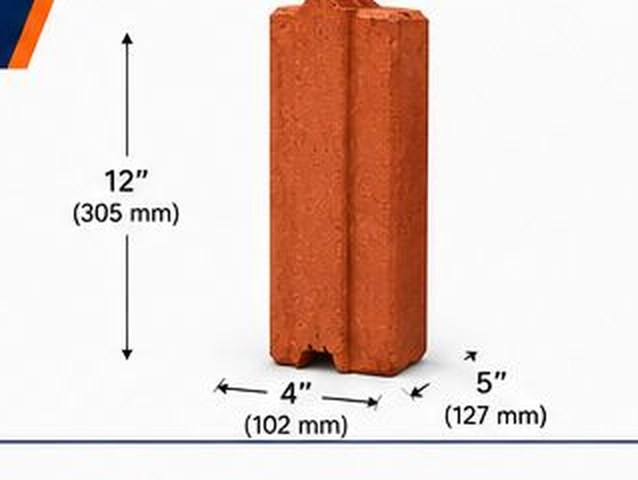
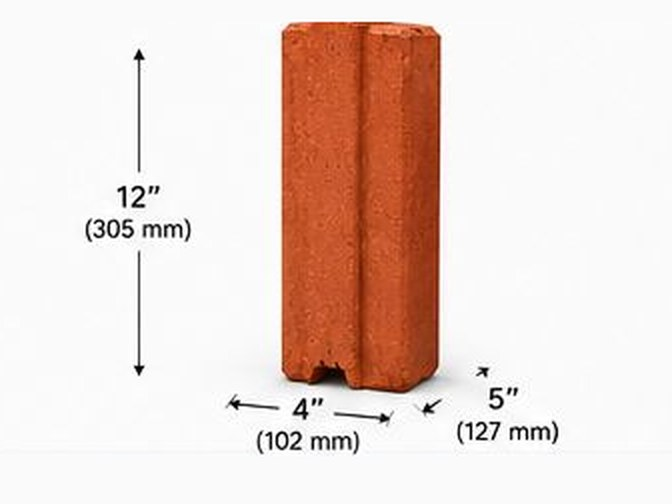
Add image sliders, size-based product cards in 9/6/4 order, drop Best Seller tag
- Reorder brick sizes to 9" / 6" / 4" everywhere (hero chips, stats,
  products intro, enquiry dropdown, footer links, designs caption)
- Replace the About section's static images with an autoplaying slideshow
  of all gallery photos (arrows, dots, swipe); gallery section unchanged
- Rebuild products as three size cards — 9, 6 and 4 inch — each with a
  red-first / grey-second image slider and full dimension annotations
- Crop a clean red 9-inch brick from the sizes sheet; re-crop 6-inch and
  4-inch to exact 4:3 with banner slivers and divider lines erased
- Remove the Best Seller tag and its CSS
- Fix About media collapsing to zero width on mobile (grid auto-margin
  shrink-wrap with no intrinsic-width child)

Changed region(s): [[0.0, 0.0, 1.0, 0.9375], [0.0893, 0.0625, 0.2978, 0.75], [0.0, 0.0, 0.0893, 0.1562]]

diff --git a/index.html b/index.html
@@ -137,7 +137,7 @@
 
     <ul class="hero__chips reveal" aria-label="Key highlights">
       <li><strong>10 Tons</strong><span>Load strength</span></li>
-      <li><strong>4" · 6" · 9"</strong><span>Brick sizes</span></li>
+      <li><strong>9" · 6" · 4"</strong><span>Brick sizes</span></li>
       <li><strong>100%</strong><span>Eco-friendly</span></li>
       <li><strong>Zero</strong><span>Plastering</span></li>
     </ul>
@@ -164,8 +164,21 @@
 <section class="section about" id="about">
   <div class="container about__grid">
     <div class="about__media reveal">
-      <img src="assets/images/wall-construction.jpg" alt="A wall under construction using Avani interlocking bricks" class="about__img-main" />
-      <img src="assets/images/bricks-stacked-red.jpg" alt="Neatly stacked red interlocking bricks showing the tongue-and-groove profile" class="about__img-float" />
+      <div class="slider slider--about" data-slider data-autoplay="3800" aria-label="Avani bricks and projects photo slideshow">
+        <div class="slider__track">
+          <img src="assets/images/bricks-yard-red.jpg" alt="Rows of red interlocking bricks curing in the production yard" class="slider__slide is-active" />
+          <img src="assets/images/wall-construction.jpg" alt="A wall under construction using Avani interlocking bricks" class="slider__slide" loading="lazy" />
+          <img src="assets/images/bricks-stacked-red.jpg" alt="Neatly stacked red interlocking bricks showing the tongue-and-groove profile" class="slider__slide" loading="lazy" />
+          <img src="assets/images/compound-wall-finished.jpg" alt="A completed compound wall built by Avani" class="slider__slide" loading="lazy" />
+          <img src="assets/images/wall-finish.jpg" alt="Smooth finished interlock brick wall" class="slider__slide" loading="lazy" />
+          <img src="assets/images/wall-plastered.jpg" alt="Interlock wall half plastered to show the paint-ready finish" class="slider__slide" loading="lazy" />
+          <img src="assets/images/yard-tan-close.jpg" alt="Close-up of interlocking bricks stacked in the yard" class="slider__slide" loading="lazy" />
+          <img src="assets/images/yard-tan-wide.jpg" alt="Wide view of the Avani brick production yard" class="slider__slide" loading="lazy" />
+        </div>
+        <button class="slider__arrow slider__arrow--prev" type="button" data-dir="-1" aria-label="Previous photo"><svg viewBox="0 0 24 24" aria-hidden="true"><path d="M15 6l-6 6 6 6"/></svg></button>
+        <button class="slider__arrow slider__arrow--next" type="button" data-dir="1" aria-label="Next photo"><svg viewBox="0 0 24 24" aria-hidden="true"><path d="M9 6l6 6-6 6"/></svg></button>
+        <div class="slider__dots"></div>
+      </div>
       <div class="about__badge">
         <strong>10T</strong>
         <span>Withstands<br />heavy load</span>
@@ -213,7 +226,7 @@
     </div>
     <div class="stat reveal">
       <span class="stat__num" data-count="3" data-suffix="">0</span>
-      <span class="stat__label">Brick sizes (4", 6" &amp; 9")</span>
+      <span class="stat__label">Brick sizes (9", 6" &amp; 4")</span>
     </div>
     <div class="stat reveal">
       <span class="stat__num" data-count="100" data-suffix="%">0</span>
@@ -322,72 +335,70 @@
       <p class="eyebrow reveal"><span class="eyebrow-rule"></span> Our Products <span class="eyebrow-rule"></span></p>
       <h2 class="section__title reveal">Interlocking bricks for every build</h2>
       <p class="section__intro reveal">
-        Available in red soil-cement and grey concrete, in 4 inch, 6 inch and 9 inch sizes — choose the
-        right brick for walls, compound walls, buildings and sheds.
+        Available in 9 inch, 6 inch and 4 inch sizes — each in red soil-cement and grey concrete.
+        Slide any card to see both colours and choose the right brick for walls, compound walls,
+        buildings and sheds.
       </p>
     </div>
 
     <div class="products__grid">
       <article class="product reveal">
         <div class="product__media">
-          <img src="assets/images/brick-red-6inch.jpg" alt="Red interlocking brick, size 6 x 12 x 5 inches" />
-          <span class="product__tag">Best Seller</span>
-        </div>
-        <div class="product__body">
-          <h3>Red Interlock Brick</h3>
-          <p class="product__spec">Size 6 × 12 × 5 in</p>
-          <p>Our signature soil-cement interlocking brick. Strong, smooth and ready to lay with minimal mortar.</p>
-          <div class="product__tags"><span>Walls</span><span>Homes</span><span>Compound</span></div>
-          <a href="#contact" class="product__link">Enquire <svg viewBox="0 0 24 24" aria-hidden="true"><path d="M5 12h14M13 6l6 6-6 6"/></svg></a>
-        </div>
-      </article>
-
-      <article class="product reveal">
-        <div class="product__media">
-          <img src="assets/images/brick-grey-trio.jpg" alt="Grey concrete interlocking bricks showing the interlocking grooves" />
-        </div>
-        <div class="product__body">
-          <h3>Grey Concrete Interlock</h3>
-          <p class="product__spec">4", 6" &amp; 9" available</p>
-          <p>High-density concrete interlock bricks built for load-bearing walls and heavy-duty structures.</p>
-          <div class="product__tags"><span>Buildings</span><span>Load-bearing</span></div>
-          <a href="#contact" class="product__link">Enquire <svg viewBox="0 0 24 24" aria-hidden="true"><path d="M5 12h14M13 6l6 6-6 6"/></svg></a>
-        </div>
-      </article>
-
-      <article class="product reveal">
-        <div class="product__media">
-          <img src="assets/images/brick-grey-single.jpg" alt="A single grey interlocking brick" />
+          <div class="slider slider--product" data-slider aria-label="9 inch interlock brick in red and grey">
+            <div class="slider__track">
+              <img src="assets/images/brick-red-9inch.jpg" alt="Red 9 inch interlocking brick, size 9 x 12 x 5 inches" class="slider__slide is-active" />
+              <img src="assets/images/brick-grey-single.jpg" alt="Grey concrete 9 inch interlocking bricks" class="slider__slide" loading="lazy" />
+            </div>
+            <button class="slider__arrow slider__arrow--prev" type="button" data-dir="-1" aria-label="Previous image"><svg viewBox="0 0 24 24" aria-hidden="true"><path d="M15 6l-6 6 6 6"/></svg></button>
+            <button class="slider__arrow slider__arrow--next" type="button" data-dir="1" aria-label="Next image"><svg viewBox="0 0 24 24" aria-hidden="true"><path d="M9 6l6 6-6 6"/></svg></button>
+            <div class="slider__dots"></div>
+          </div>
         </div>
         <div class="product__body">
           <h3>9 Inch Interlock</h3>
-          <p class="product__spec">Thick wall · extra strength</p>
-          <p>The 9 inch profile for outer walls, compound walls and structures that need extra strength.</p>
-          <div class="product__tags"><span>Compound walls</span><span>Sheds</span></div>
+          <p class="product__spec">Size 9 × 12 × 5 in · Red &amp; Grey</p>
+          <p>The thick 9 inch profile for outer walls, compound walls and structures that need extra strength.</p>
+          <div class="product__tags"><span>Compound walls</span><span>Load-bearing</span></div>
           <a href="#contact" class="product__link">Enquire <svg viewBox="0 0 24 24" aria-hidden="true"><path d="M5 12h14M13 6l6 6-6 6"/></svg></a>
         </div>
       </article>
 
       <article class="product reveal">
         <div class="product__media">
-          <img src="assets/images/brick-grey-tall.jpg" alt="A grey interlocking brick standing upright" />
+          <div class="slider slider--product" data-slider aria-label="6 inch interlock brick in red and grey">
+            <div class="slider__track">
+              <img src="assets/images/brick-red-6inch.jpg" alt="Red 6 inch interlocking brick, size 6 x 12 x 5 inches" class="slider__slide is-active" />
+              <img src="assets/images/brick-grey-tall.jpg" alt="Grey concrete 6 inch interlocking brick" class="slider__slide" loading="lazy" />
+            </div>
+            <button class="slider__arrow slider__arrow--prev" type="button" data-dir="-1" aria-label="Previous image"><svg viewBox="0 0 24 24" aria-hidden="true"><path d="M15 6l-6 6 6 6"/></svg></button>
+            <button class="slider__arrow slider__arrow--next" type="button" data-dir="1" aria-label="Next image"><svg viewBox="0 0 24 24" aria-hidden="true"><path d="M9 6l6 6-6 6"/></svg></button>
+            <div class="slider__dots"></div>
+          </div>
         </div>
         <div class="product__body">
           <h3>6 Inch Interlock</h3>
-          <p class="product__spec">Lightweight · versatile</p>
-          <p>The everyday 6 inch brick for internal partitions and fast, economical wall construction.</p>
-          <div class="product__tags"><span>Partitions</span><span>Interiors</span></div>
+          <p class="product__spec">Size 6 × 12 × 5 in · Red &amp; Grey</p>
+          <p>Our signature everyday brick for homes, internal walls and fast, economical construction.</p>
+          <div class="product__tags"><span>Homes</span><span>Walls</span><span>Partitions</span></div>
           <a href="#contact" class="product__link">Enquire <svg viewBox="0 0 24 24" aria-hidden="true"><path d="M5 12h14M13 6l6 6-6 6"/></svg></a>
         </div>
       </article>
 
       <article class="product reveal">
         <div class="product__media">
-          <img src="assets/images/brick-red-4inch.jpg" alt="A slim 4 inch interlocking brick, size 4 x 12 x 5 inches" />
+          <div class="slider slider--product" data-slider aria-label="4 inch interlock brick in red and grey">
+            <div class="slider__track">
+              <img src="assets/images/brick-red-4inch.jpg" alt="Slim red 4 inch interlocking brick, size 4 x 12 x 5 inches" class="slider__slide is-active" />
+              <img src="assets/images/brick-grey-trio.jpg" alt="Grey concrete 4 inch interlocking brick" class="slider__slide" loading="lazy" />
+            </div>
+            <button class="slider__arrow slider__arrow--prev" type="button" data-dir="-1" aria-label="Previous image"><svg viewBox="0 0 24 24" aria-hidden="true"><path d="M15 6l-6 6 6 6"/></svg></button>
+            <button class="slider__arrow slider__arrow--next" type="button" data-dir="1" aria-label="Next image"><svg viewBox="0 0 24 24" aria-hidden="true"><path d="M9 6l6 6-6 6"/></svg></button>
+            <div class="slider__dots"></div>
+          </div>
         </div>
         <div class="product__body">
           <h3>4 Inch Interlock</h3>
-          <p class="product__spec">Size 4 × 12 × 5 in</p>
+          <p class="product__spec">Size 4 × 12 × 5 in · Red &amp; Grey</p>
           <p>The slim 4 inch profile for light partitions, parapet walls and space-saving interior walls.</p>
           <div class="product__tags"><span>Parapet walls</span><span>Light partitions</span></div>
           <a href="#contact" class="product__link">Enquire <svg viewBox="0 0 24 24" aria-hidden="true"><path d="M5 12h14M13 6l6 6-6 6"/></svg></a>
@@ -637,8 +648,8 @@
       </figure>
 
       <figure class="design-card reveal" data-src="assets/images/design-brick-sizes.jpg">
-        <img src="assets/images/design-brick-sizes.jpg" alt="Avani interlock brick sizes — 4, 6 and 9 inch with full dimensions" loading="lazy" />
-        <figcaption><strong>Brick Sizes</strong><span>4″ · 6″ · 9″ specifications</span></figcaption>
+        <img src="assets/images/design-brick-sizes.jpg" alt="Avani interlock brick sizes — 9, 6 and 4 inch with full dimensions" loading="lazy" />
+        <figcaption><strong>Brick Sizes</strong><span>9″ · 6″ · 4″ specifications</span></figcaption>
       </figure>
 
       <figure class="design-card reveal" data-src="assets/images/wall-finishes.jpg">
@@ -843,11 +854,11 @@
         <div class="field">
           <label for="product">Requirement</label>
           <select id="product" name="product">
+            <option>9 Inch Interlock</option>
+            <option>6 Inch Interlock</option>
+            <option>4 Inch Interlock</option>
             <option>Red Interlock Brick</option>
             <option>Grey Concrete Interlock</option>
-            <option>4 Inch Interlock</option>
-            <option>6 Inch Interlock</option>
-            <option>9 Inch Interlock</option>
             <option>End-to-End Construction</option>
             <option>Not sure — need advice</option>
           </select>
@@ -894,11 +905,11 @@
 
     <div class="footer__col">
       <h4>Products</h4>
+      <a href="#products">9 Inch Brick</a>
+      <a href="#products">6 Inch Brick</a>
+      <a href="#products">4 Inch Brick</a>
       <a href="#products">Red Interlock Brick</a>
       <a href="#products">Grey Concrete Interlock</a>
-      <a href="#products">4 Inch Brick</a>
-      <a href="#products">6 Inch Brick</a>
-      <a href="#products">9 Inch Brick</a>
     </div>
 
     <div class="footer__col">

diff --git a/js/main.js b/js/main.js
@@ -140,6 +140,57 @@
     vid.addEventListener("ended", () => videoItem.classList.remove("playing"));
   });
 
+  /* ---------- Sliders (about slideshow + product red/grey) ---------- */
+  document.querySelectorAll("[data-slider]").forEach((slider) => {
+    const slides = Array.from(slider.querySelectorAll(".slider__slide"));
+    if (slides.length < 2) return;
+    const dotsWrap = slider.querySelector(".slider__dots");
+    let index = Math.max(0, slides.findIndex((s) => s.classList.contains("is-active")));
+    slides[index].classList.add("is-active");
+
+    const dots = slides.map((_, n) => {
+      const dot = document.createElement("button");
+      dot.type = "button";
+      dot.className = "slider__dot" + (n === index ? " is-active" : "");
+      dot.setAttribute("aria-label", "Go to image " + (n + 1) + " of " + slides.length);
+      dot.addEventListener("click", () => { go(n); restart(); });
+      dotsWrap.appendChild(dot);
+      return dot;
+    });
+
+    const go = (n) => {
+      slides[index].classList.remove("is-active");
+      dots[index].classList.remove("is-active");
+      index = (n + slides.length) % slides.length;
+      slides[index].classList.add("is-active");
+      dots[index].classList.add("is-active");
+    };
+
+    slider.querySelectorAll(".slider__arrow").forEach((btn) => {
+      btn.addEventListener("click", () => { go(index + Number(btn.dataset.dir)); restart(); });
+    });
+
+    // Autoplay (about slideshow), paused while hovering
+    const delay = Number(slider.dataset.autoplay) || 0;
+    let timer = null;
+    const stop = () => { if (timer) { clearInterval(timer); timer = null; } };
+    const start = () => { if (delay && !timer) timer = setInterval(() => go(index + 1), delay); };
+    const restart = () => { stop(); start(); };
+    slider.addEventListener("pointerenter", stop);
+    slider.addEventListener("pointerleave", start);
+    start();
+
+    // Swipe
+    let downX = null;
+    slider.addEventListener("pointerdown", (e) => { downX = e.clientX; });
+    slider.addEventListener("pointerup", (e) => {
+      if (downX === null) return;
+      const dx = e.clientX - downX;
+      downX = null;
+      if (Math.abs(dx) > 40) { go(index + (dx < 0 ? 1 : -1)); restart(); }
+    });
+  });
+
   /* ---------- Contact form → WhatsApp ---------- */
   const form = document.getElementById("enquiryForm");
   const note = document.getElementById("formNote");

diff --git a/css/styles.css b/css/styles.css
@@ -270,11 +270,7 @@ h1, h2, h3, h4 { font-family: var(--font-display); font-weight: 600; line-height
    ========================================================= */
 .about__grid { display: grid; grid-template-columns: 1fr 1fr; gap: clamp(36px, 6vw, 86px); align-items: center; }
 .about__media { position: relative; }
-.about__img-main { width: 100%; aspect-ratio: 4/3.4; object-fit: cover; border-radius: var(--radius-lg); box-shadow: var(--shadow-md); }
-.about__img-float {
-  position: absolute; right: -22px; bottom: -34px; width: 46%; aspect-ratio: 1/1;
-  object-fit: cover; border-radius: var(--radius); border: 6px solid var(--paper); box-shadow: var(--shadow-lg);
-}
+.slider--about { aspect-ratio: 4/3.4; border-radius: var(--radius-lg); box-shadow: var(--shadow-md); }
 .about__badge {
   position: absolute; left: -22px; top: 28px;
   display: flex; align-items: center; gap: 12px;
@@ -296,7 +292,7 @@ h1, h2, h3, h4 { font-family: var(--font-display); font-weight: 600; line-height
 
 @media (max-width: 820px) {
   .about__grid { grid-template-columns: 1fr; }
-  .about__media { max-width: 520px; margin: 0 auto 30px; }
+  .about__media { width: 100%; max-width: 520px; margin: 0 auto 30px; }
 }
 
 /* =========================================================
@@ -356,7 +352,7 @@ h1, h2, h3, h4 { font-family: var(--font-display); font-weight: 600; line-height
 /* =========================================================
    PRODUCTS
    ========================================================= */
-.products__grid { display: grid; grid-template-columns: repeat(4, 1fr); gap: 22px; }
+.products__grid { display: grid; grid-template-columns: repeat(3, 1fr); gap: 26px; max-width: 1080px; margin-inline: auto; }
 .product {
   background: var(--white); border: 1px solid var(--line-soft); border-radius: var(--radius-lg); overflow: hidden;
   box-shadow: var(--shadow-sm); transition: transform var(--t-fast), box-shadow var(--t-fast);
@@ -366,7 +362,6 @@ h1, h2, h3, h4 { font-family: var(--font-display); font-weight: 600; line-height
 .product__media { position: relative; aspect-ratio: 4/3; background: var(--sand); overflow: hidden; }
 .product__media img { width: 100%; height: 100%; object-fit: cover; transition: transform 0.6s var(--ease); }
 .product:hover .product__media img { transform: scale(1.07); }
-.product__tag { position: absolute; top: 14px; left: 14px; background: var(--terracotta); color: #fff; font-size: 0.72rem; font-weight: 700; letter-spacing: 0.06em; text-transform: uppercase; padding: 6px 12px; border-radius: 100px; }
 .product__body { padding: 22px 22px 24px; display: flex; flex-direction: column; flex: 1; }
 .product__body h3 { font-size: 1.28rem; }
 .product__spec { font-size: 0.82rem; font-weight: 700; color: var(--terracotta); letter-spacing: 0.04em; margin: 4px 0 10px; }
@@ -524,6 +519,44 @@ h1, h2, h3, h4 { font-family: var(--font-display); font-weight: 600; line-height
 @media (max-width: 760px) {
   .locations__grid { grid-template-columns: 1fr; max-width: 380px; gap: 30px; }
 }
+
+/* =========================================================
+   SLIDERS (about slideshow + product red/grey)
+   ========================================================= */
+.slider { position: relative; overflow: hidden; background: var(--sand); }
+.slider__track { position: relative; width: 100%; height: 100%; }
+.slider .slider__slide {
+  position: absolute; inset: 0; width: 100%; height: 100%; object-fit: cover;
+  opacity: 0; transition: opacity 0.7s var(--ease), transform 0.6s var(--ease);
+}
+.slider .slider__slide.is-active { opacity: 1; }
+.slider__arrow {
+  position: absolute; top: 50%; translate: 0 -50%; z-index: 2;
+  display: grid; place-items: center; width: 38px; height: 38px;
+  border: none; border-radius: 50%; cursor: pointer;
+  background: rgba(255,255,255,0.92); color: var(--ink); box-shadow: var(--shadow-sm);
+  transition: background var(--t-fast), scale var(--t-fast), opacity var(--t-fast);
+}
+.slider__arrow:hover { background: #fff; scale: 1.08; }
+.slider__arrow--prev { left: 12px; }
+.slider__arrow--next { right: 12px; }
+.slider__arrow svg { width: 18px; height: 18px; fill: none; stroke: currentColor; stroke-width: 2.4; stroke-linecap: round; stroke-linejoin: round; }
+.slider__dots { position: absolute; left: 0; right: 0; bottom: 12px; display: flex; justify-content: center; gap: 7px; z-index: 2; }
+.slider__dot {
+  width: 8px; height: 8px; padding: 0; border: none; border-radius: 999px; cursor: pointer;
+  background: rgba(255,255,255,0.6); box-shadow: 0 1px 3px rgba(23,19,15,0.35);
+  transition: background var(--t-fast), width var(--t-fast);
+}
+.slider__dot.is-active { width: 22px; background: var(--terracotta); }
+
+.slider--product { position: absolute; inset: 0; background: none; }
+.slider--product .slider__arrow { width: 30px; height: 30px; }
+.slider--product .slider__arrow--prev { left: 10px; }
+.slider--product .slider__arrow--next { right: 10px; }
+.slider--product .slider__arrow svg { width: 14px; height: 14px; }
+.slider--product .slider__dots { bottom: 10px; left: 14px; right: auto; justify-content: flex-start; }
+.slider--product .slider__dot { box-shadow: 0 1px 3px rgba(23,19,15,0.25); background: rgba(23,19,15,0.22); }
+.slider--product .slider__dot.is-active { background: var(--terracotta); }
 
 /* Lightbox */
 .lightbox { position: fixed; inset: 0; z-index: 200; background: rgba(15,10,7,0.92); display: flex; align-items: center; justify-content: center; padding: 30px; opacity: 0; visibility: hidden; transition: opacity var(--t); }